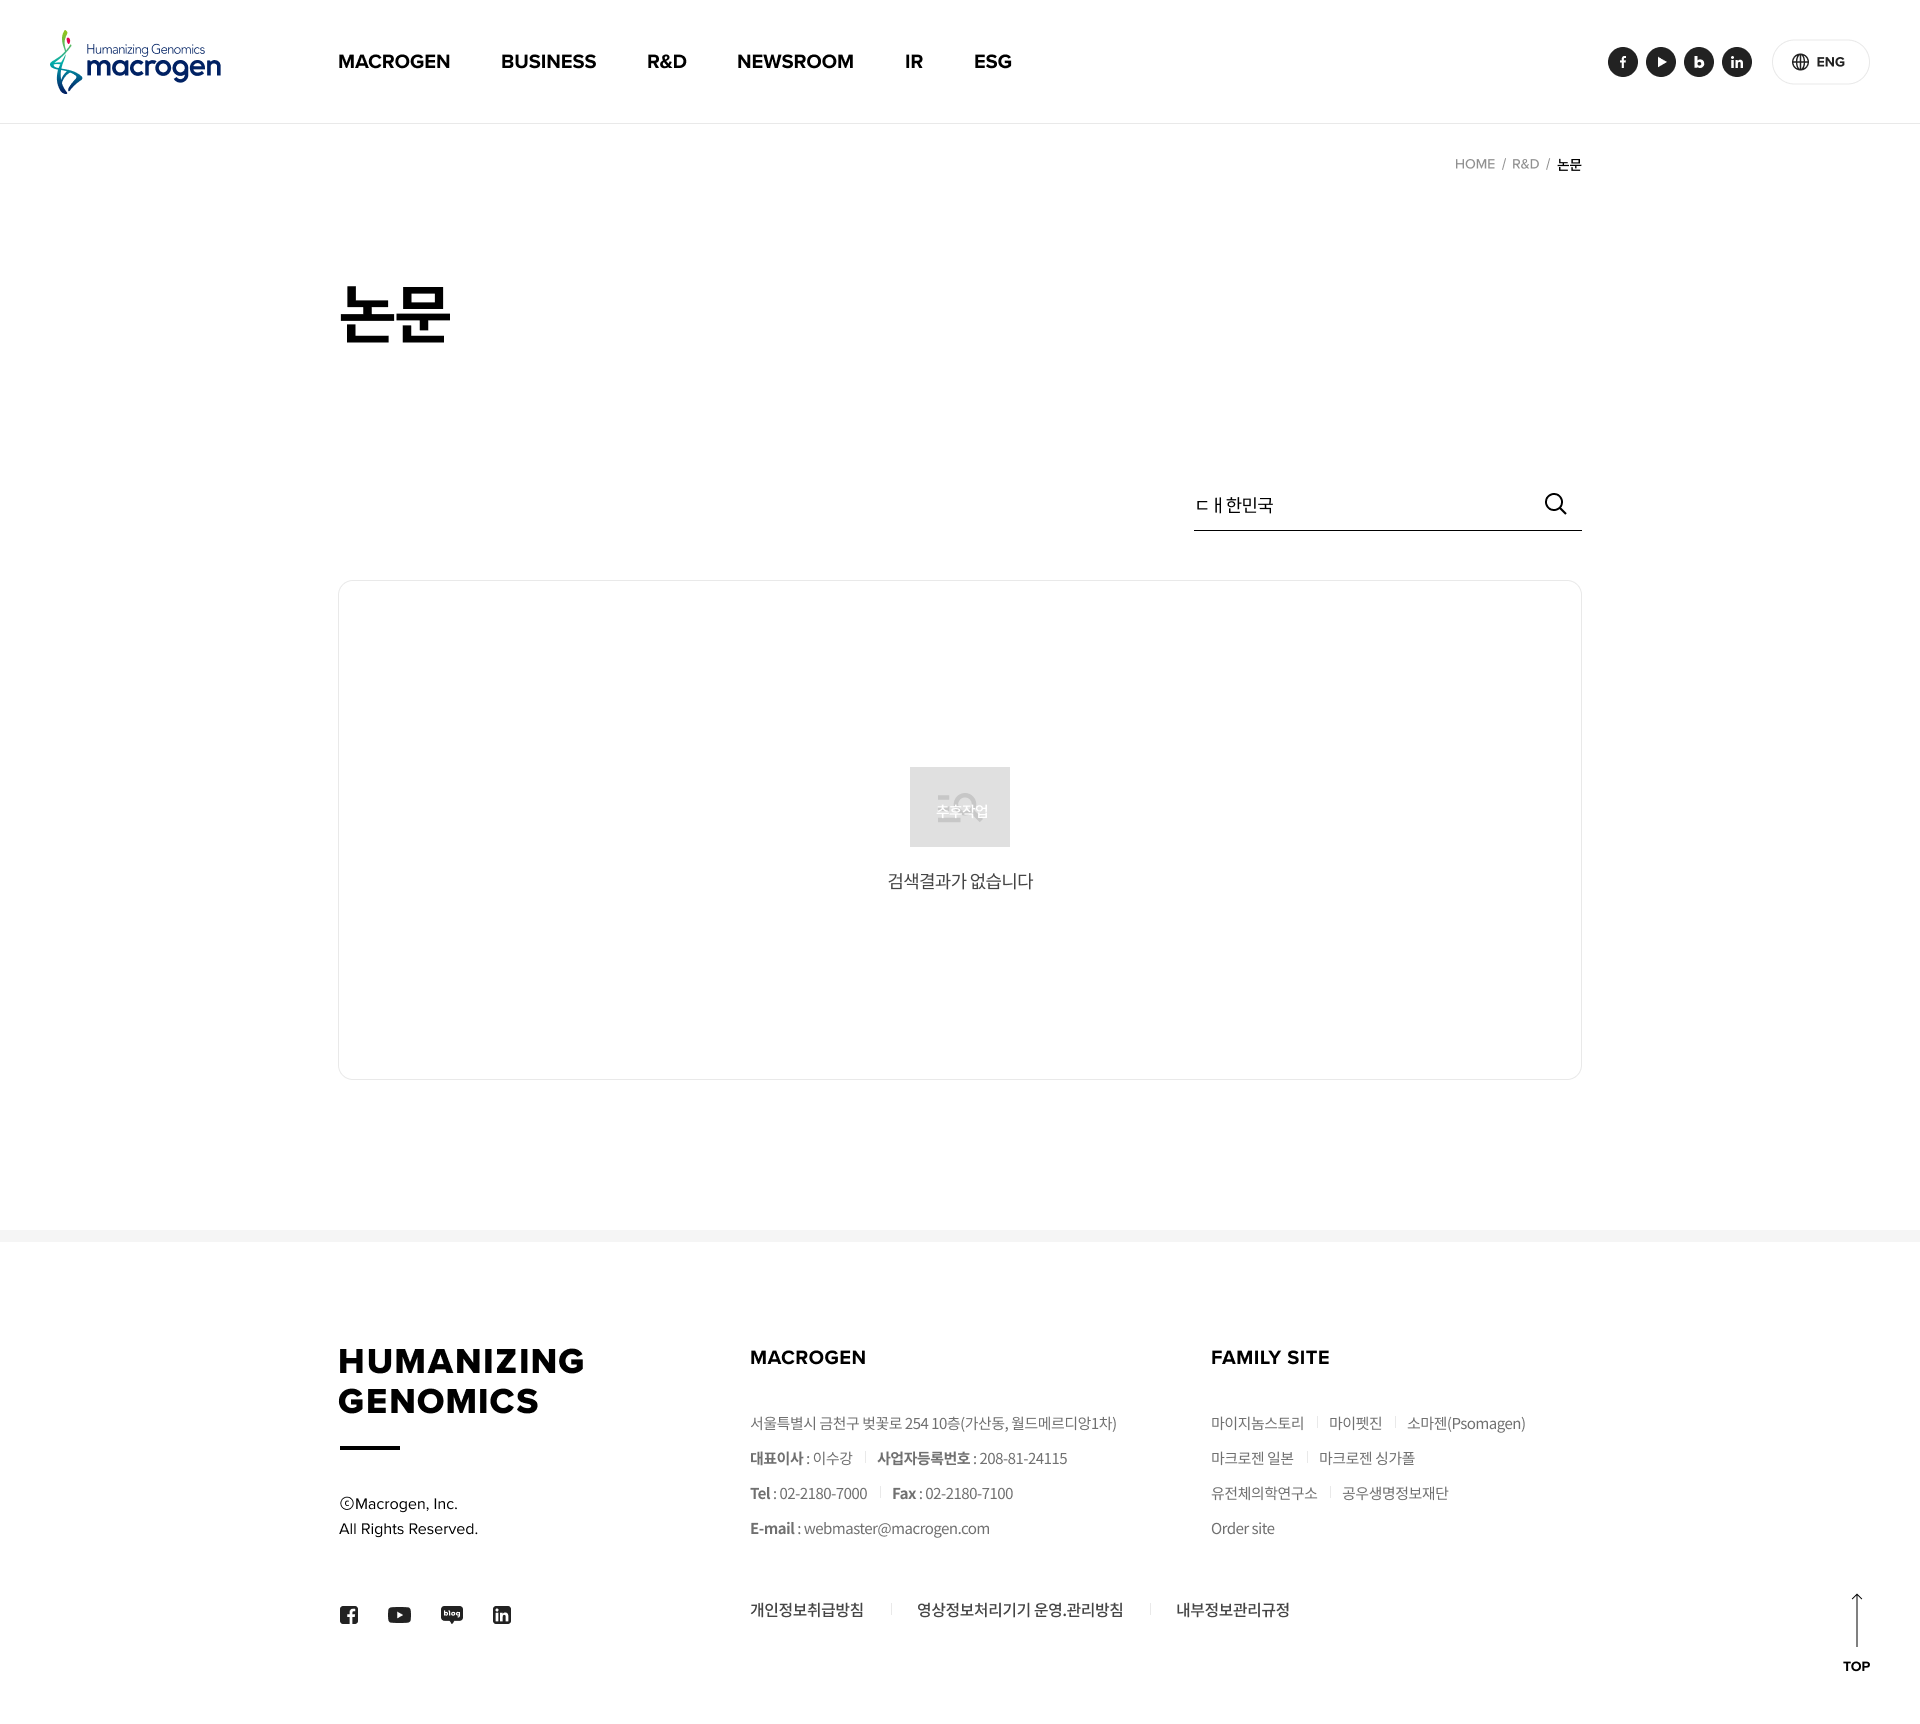
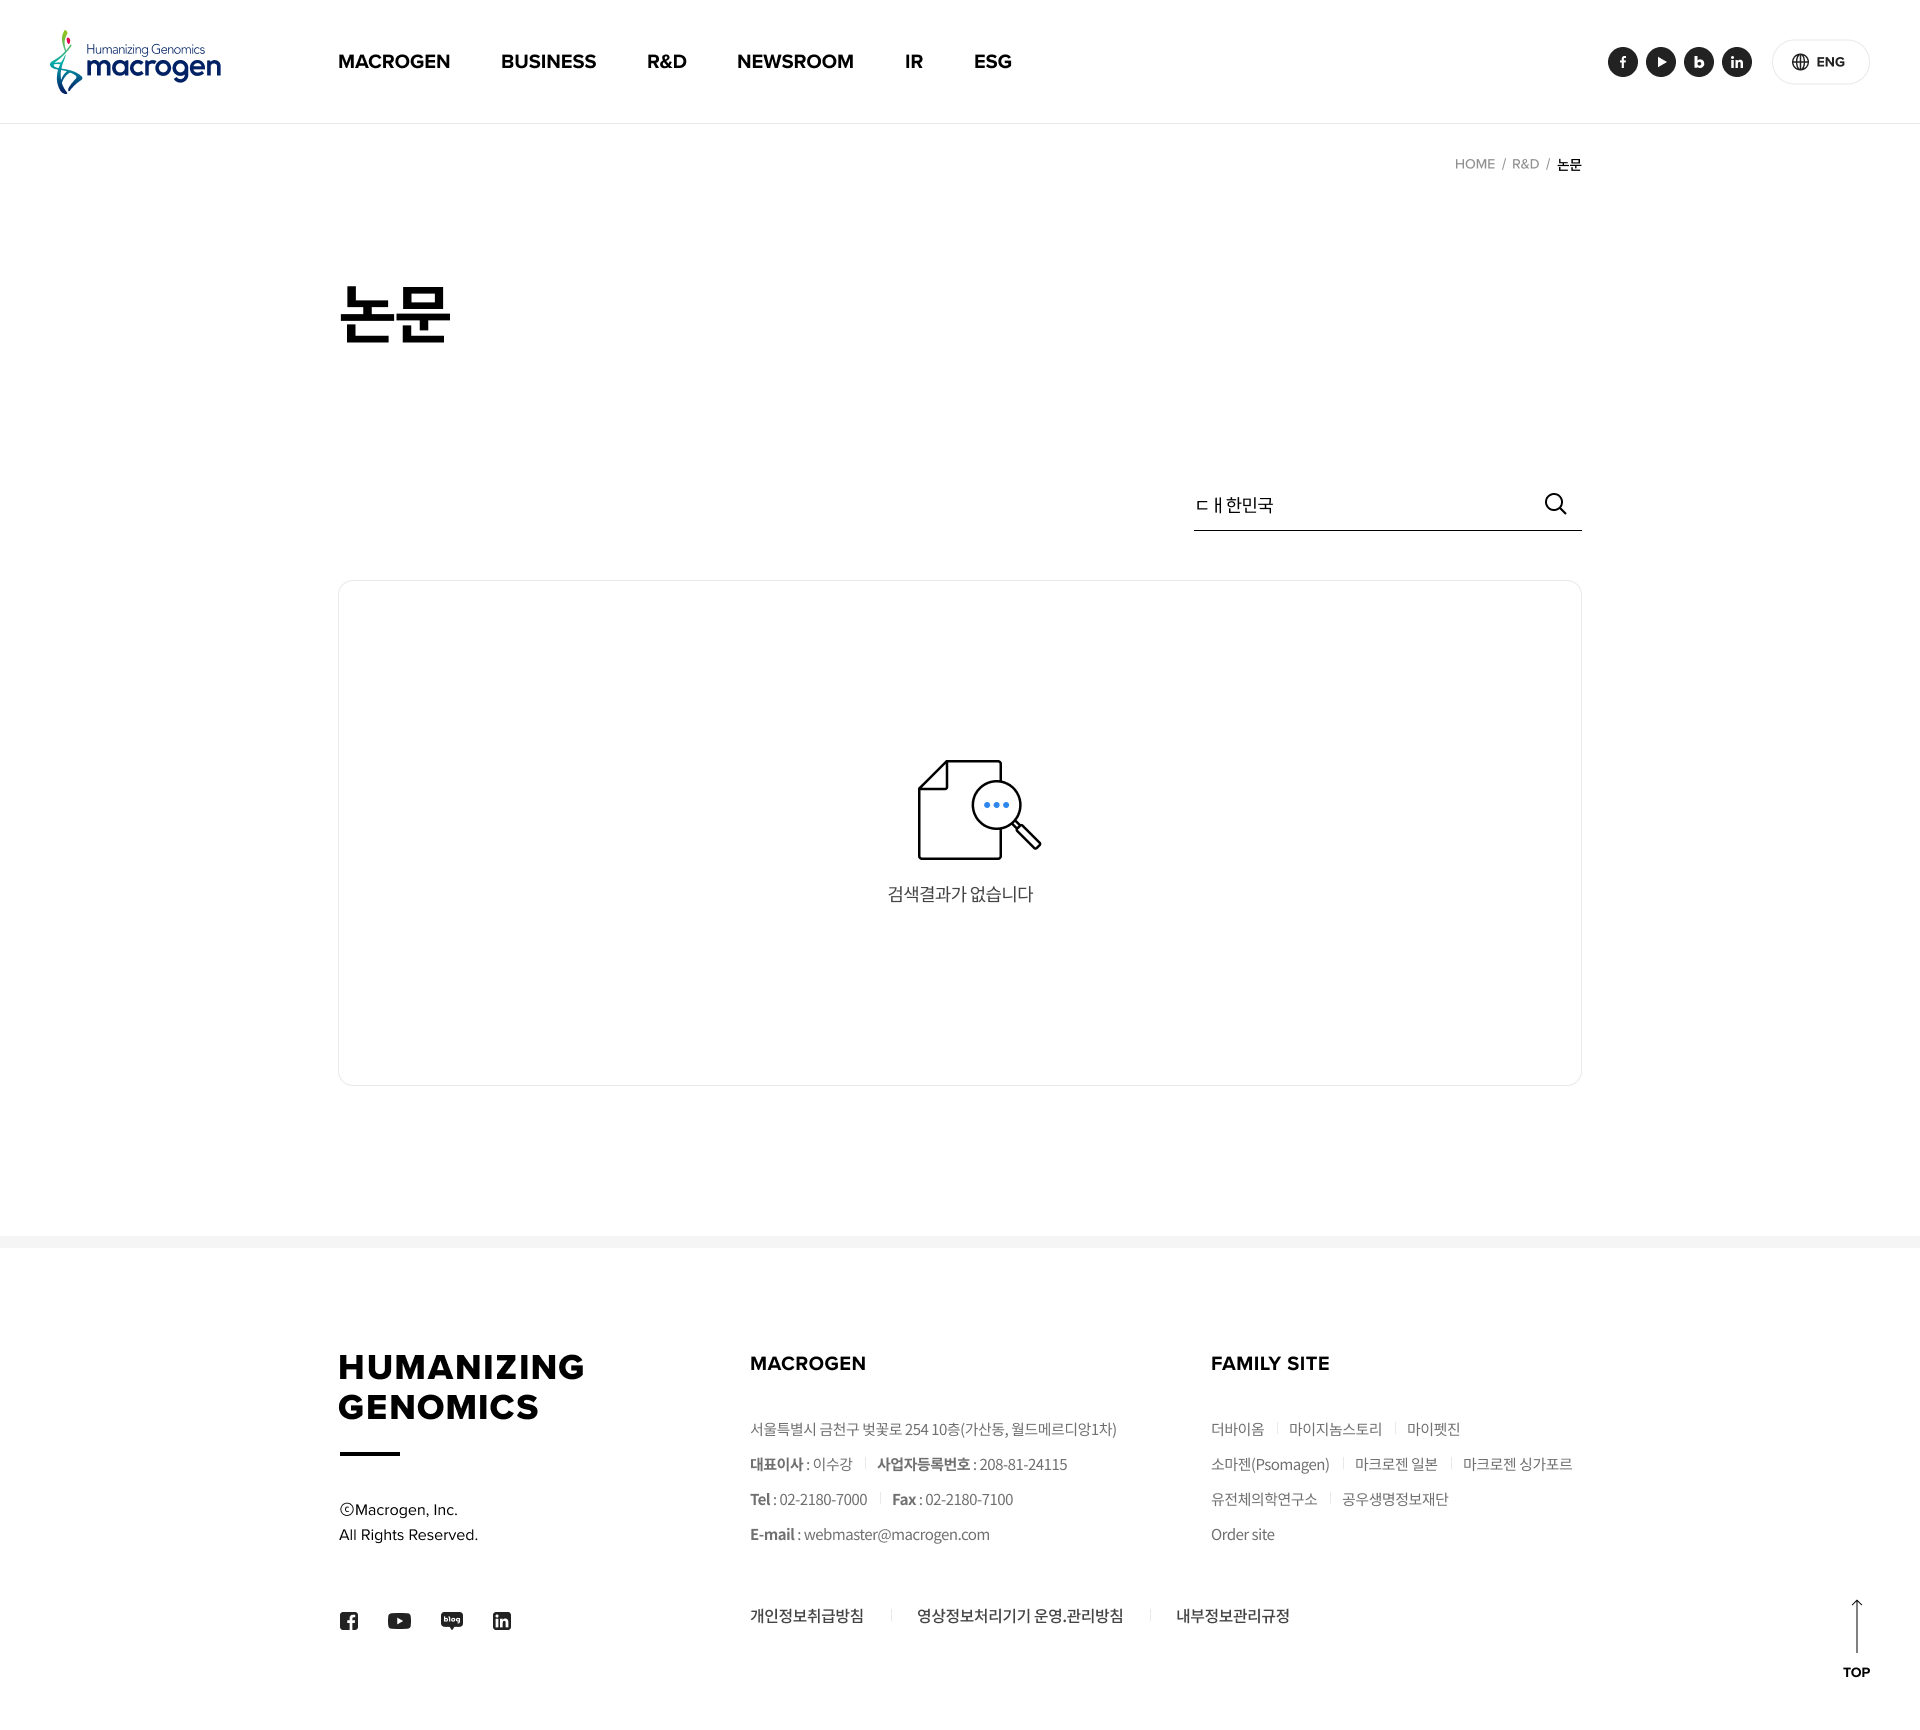
MAR-145 R&D > 특허/논문 > 논문 > 목록없음

diff --git a/component/src/scss/component/_config.scss b/component/src/scss/component/_config.scss
@@ -1,6 +1,7 @@
 /*
 |----------------------------------|
  v.0.1 주연 : 최초 작업 -- 2021.08.31
+ v.0.2 선미 : no-data / divider 추가 (layout 에서 이동) -- 2021.09.13
 |----------------------------------|
 */
 
@@ -43,4 +44,26 @@ $theme-colors: map-merge($theme-colors, $custom-colors);
   height: $height;
   background-image: url($url + $category + "/" + $img);
   background-size: cover;
+}
+
+
+
+
+/*공통 - 데이터 없는경우*/
+.no-data {
+  padding: 180px 0!important;
+  text-align: center;
+  p {
+    font-size: 18px;
+    color:$gray-454545;
+    padding-top: 120px;
+    background: url(../img/common/img-nodata.svg) no-repeat center top;
+  }
+}
+
+
+hr.divider {
+  margin: 0;
+  opacity: 1;
+  background: $line-e9e9e9;
 }

diff --git a/pc-ko/pagelist/data/data.js b/pc-ko/pagelist/data/data.js
@@ -145,7 +145,6 @@ data.macrogen = {
       page: 'Main'
     },
     {
-      stateClass: 'waiting',
       stateClass: 'complete',
       url: '01Macrogen_01기업개요',
       category: 'macrogen',
@@ -361,7 +360,7 @@ data.RD = {
       page: '06특허,논문_02논문_01목록'
     },
     {
-      stateClass: 'working',
+      stateClass: 'complete',
       url: '06특허,논문_02논문_01목록없음',
       category: 'RD',
       page: '06특허,논문_02논문_01목록없음'

diff --git a/component/src/scss/component/_layout.scss b/component/src/scss/component/_layout.scss
@@ -556,24 +556,6 @@
   }
 }
 
-/*데이터 없는경우*/
-.no-data {
-  padding: 187px 0!important;
-  text-align: center;
-  p {
-    font-size: 18px;
-    color:$gray-454545;
-    padding-top: 100px;
-    background: url(../img/common/img-nodata.png) no-repeat center top;
-  }
-}
-
-hr.divider {
-  margin: 0;
-  opacity: 1;
-  background: $line-e9e9e9;
-}
-
 @media (max-width: 1440px) {
   .wrap {
     .header {
